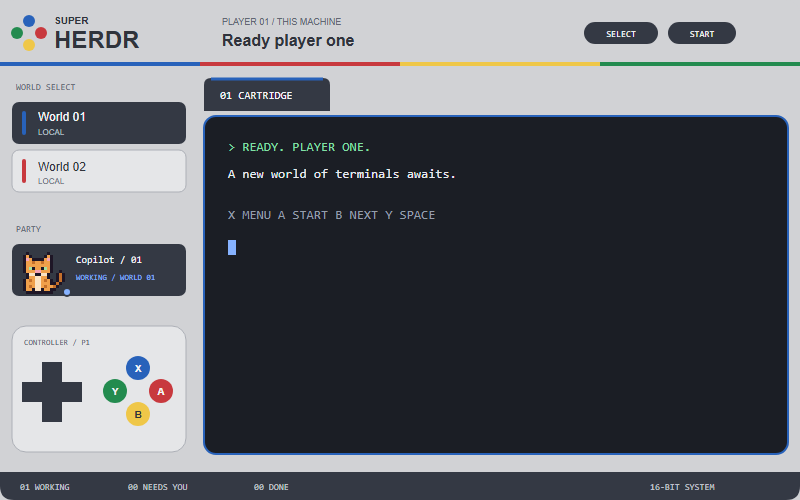
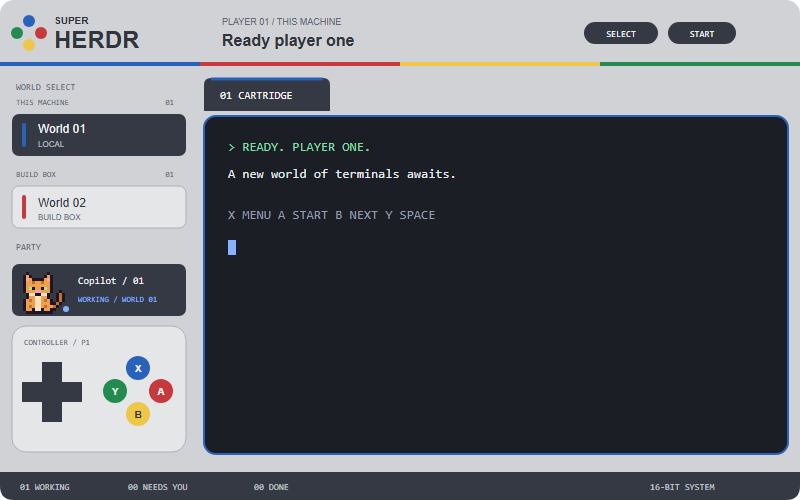
Added Theme update mechanism

diff --git a/README.md b/README.md
@@ -22,7 +22,9 @@ Download or copy this whole repository to the other machine. In PowerShell 7, op
 .\install.ps1
 ```
 
-The installer copies the layout and its mod into `~\.config\herdr-app`, then runs Herdr's native mod check. It refuses to overwrite an existing `mods\snes`, `layouts\snes.json`, or `layouts\snes.svg`. It does not change settings, shortcuts, sessions, or the selected layout.
+The installer installs or updates the layout and its mod in `~\.config\herdr-app`, then runs Herdr's native mod check. Run the same command again after downloading a newer version to update an existing installation. Existing Super Herdr mods are recognized by the `Super Herdr` title in `mods\snes\mod.json`; unrelated name conflicts are still refused.
+
+Updates replace only the bundled layout, mod, sprite, and license files. Back up any local edits to those files first. Unlisted custom files, other layouts, settings, shortcuts, sessions, and the selected layout are preserved.
 
 After installation succeeds, activate the layout:
 
@@ -30,7 +32,7 @@ After installation succeeds, activate the layout:
 herdr-app do layout.switch --name snes
 ```
 
-`.\install.ps1 -WhatIf` previews the installation after checking prerequisites and name conflicts. `-HerdrHome 'C:\path\to\herdr-app'` supports a custom configuration folder; use it only for the configuration your Herdr installation actually uses.
+`.\install.ps1 -WhatIf` previews installation or updating after checking prerequisites and name conflicts, without changing files. `-HerdrHome 'C:\path\to\herdr-app'` supports a custom configuration folder; use it only for the configuration your Herdr installation actually uses.
 
 If PowerShell blocks the script, follow your machine's script-execution policy or use the manual installation below.
 
@@ -46,7 +48,7 @@ Copy only:
 | `layouts/snes.svg` | `layouts/snes.svg` |
 | The whole `mods/snes` folder, including sprites and licenses | `mods/snes` |
 
-Keep the `snes` names: the layout and mod reference them. Do not overwrite an existing installation. Back it up and resolve the name conflict first.
+Keep the `snes` names: the layout and mod reference them. Do not overwrite an unrelated layout or mod using that name. To manually update Super Herdr, back up local edits and replace only the bundled theme files; preserve unlisted custom files and all other configuration.
 
 On macOS/Linux, validate and then activate:
 

diff --git a/RECIPE.md b/RECIPE.md
@@ -56,7 +56,7 @@ There are no network calls, external program executions, filesystem reads, or de
 ## Watch out
 
 - Start with Herdr 0.1.14's API or a compatible newer version. Shipped layouts and mods are read-only; add a separate `snes` layout/mod instead.
-- Do not overwrite another `snes` installation. Renaming requires updating the layout's mod names, self-referencing popup name, and logical asset paths together.
+- The Windows installer updates existing Super Herdr installations, identified by the `Super Herdr` title in `mods/snes/mod.json`. Updates replace only bundled theme files, including local edits to those files; unlisted files and user configuration are preserved. Refuse unrelated `snes` name conflicts. Renaming requires updating the layout's mod names, self-referencing popup name, and logical asset paths together.
 - Keep saved user state, machine details, settings, shortcuts, and generated editor declarations out of the package.
 - Native mod checks cover eager rendering only. Exercise all five parts and non-empty working/blocked/done/idle agent lists as well.
 - Keep the titlebar controls usable on Windows and leave native macOS button space. Narrow windows truncate labels; the sidebar width is fixed.
@@ -73,4 +73,4 @@ There are no network calls, external program executions, filesystem reads, or de
 - Agent and context-menu clicks target the correct agent/pane. Local and ready-remote space creation use the correct machine.
 - Local-only, remote-only, mixed/interleaved, offline/unknown-machine, and empty space lists render without missing or duplicated spaces. Machine counts and local-first/name-sorted headings are correct; long labels do not displace counts.
 - Only animal avatars are taken from Pixelherd; the SNES pane, headers, backgrounds, row height, and labels remain.
-- The installer refuses collisions and incomplete packages, preserves unrelated configuration, reports validation failures, and never changes the active layout itself.
+- The installer supports fresh installs and repeat updates, repairs missing bundled files in a recognized installation, preserves unrelated/custom files and configuration, and makes no changes with `-WhatIf`. It refuses unrelated name collisions, non-file destinations, and incomplete packages, reports validation failures, and never changes the active layout itself.
